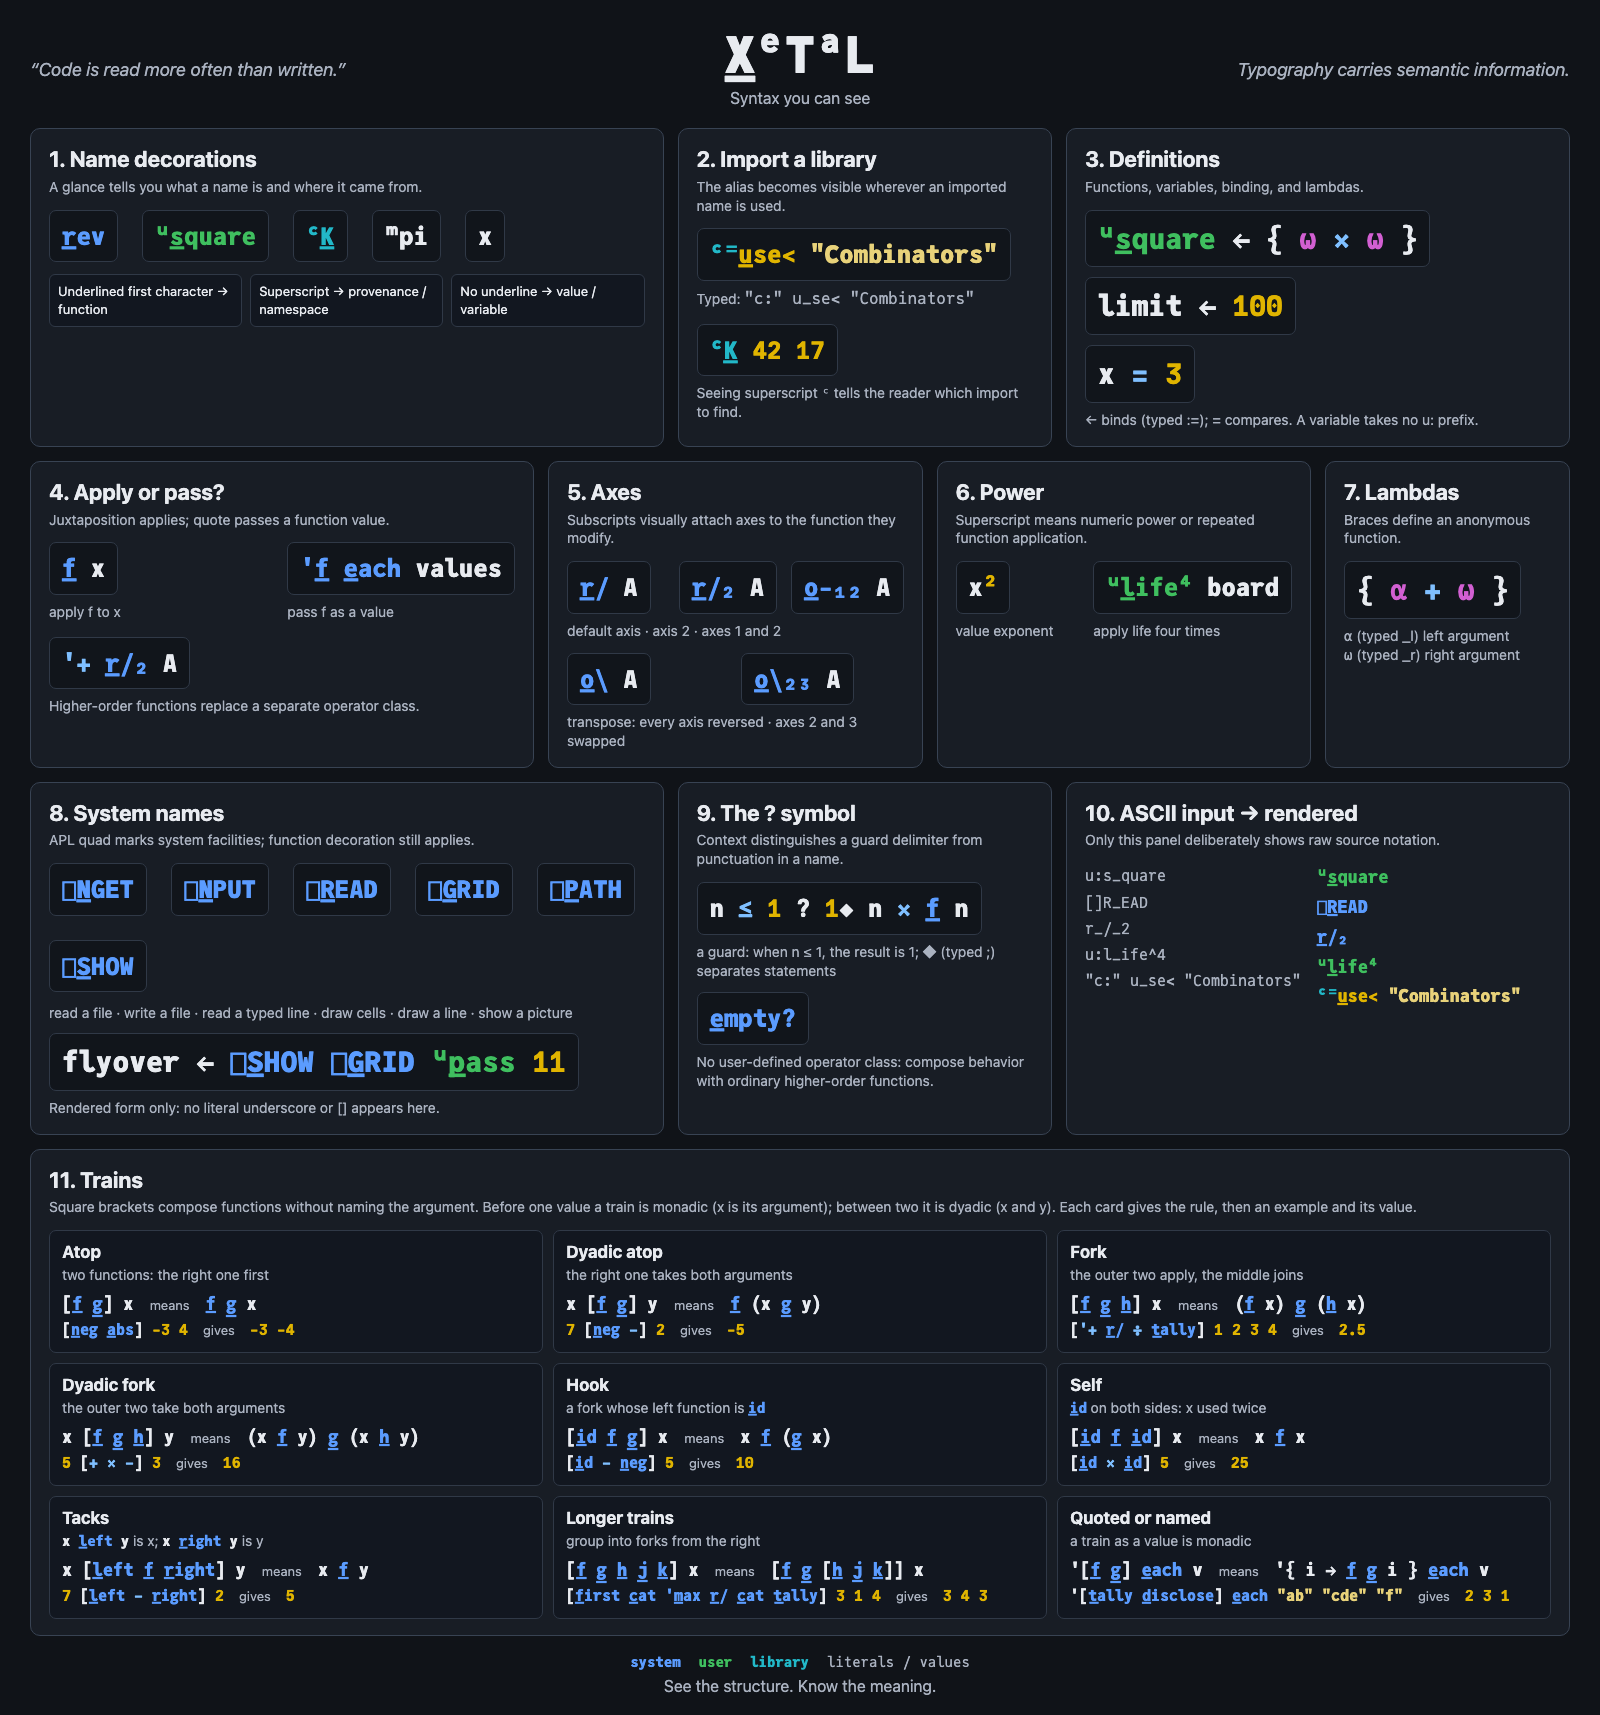
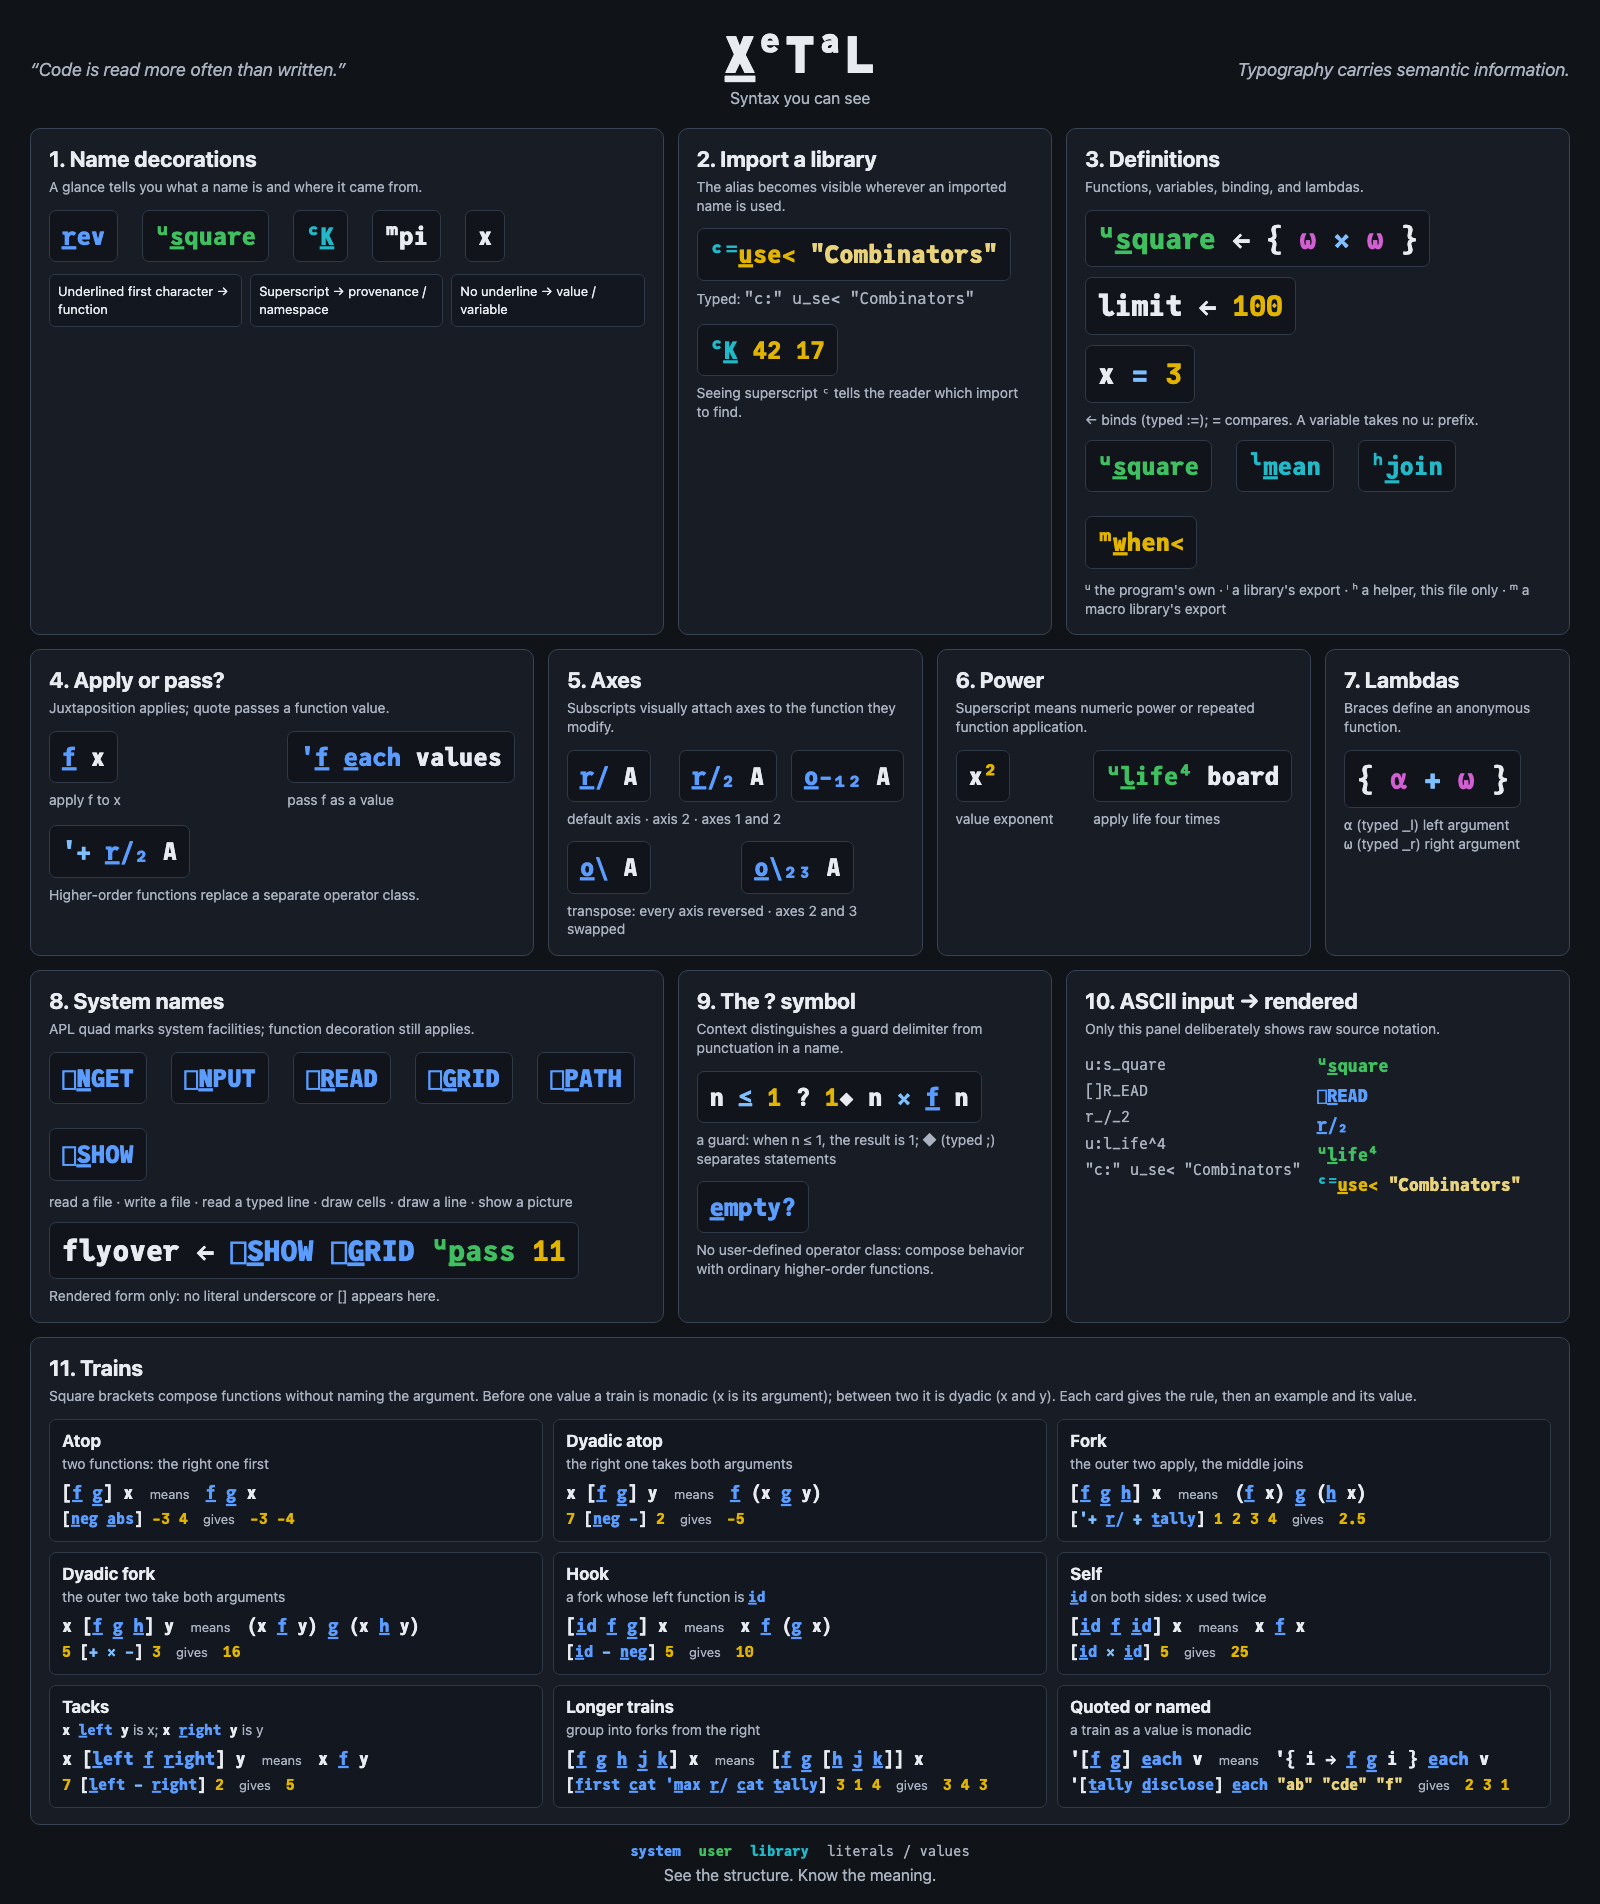
docs: the u:, l:, h: and m: prefixes in the README and the syntax poster

diff --git a/pages/poster/index.html b/pages/poster/index.html
@@ -28,7 +28,7 @@ footer{grid-column:1/-1;text-align:center;color:var(--dim);padding-top:4px}.lege
 <section class="panel p3"><h2>3. Definitions</h2><div class="sub">Functions, variables, binding, and lambdas.</div>
 <div><span class="sample code big xetal-placeholder" data-source='u:s_quare := { _r * _r }'><span class="c-userfunc">ᵘs̲quare</span> ← { <span class="c-lambdaarg">⍵</span> <span class="c-symbol">×</span> <span class="c-lambdaarg">⍵</span> }</span></div>
 <div style="margin-top:10px"><span class="sample code big xetal-placeholder" data-source='limit := 100'>limit ← <span class="c-number">100</span></span></div>
-<div style="margin-top:10px"><span class="sample code big xetal-placeholder" data-source='x = 3'>x <span class="c-symbol">=</span> <span class="c-number">3</span></span></div><div class="note">← binds (typed :=); = compares. A variable takes no u: prefix.</div></section>
+<div style="margin-top:10px"><span class="sample code big xetal-placeholder" data-source='x = 3'>x <span class="c-symbol">=</span> <span class="c-number">3</span></span></div><div class="note">← binds (typed :=); = compares. A variable takes no u: prefix.</div><div class="code-row" style="margin-top:10px"><span class="sample code xetal-placeholder" data-source='u:s_quare'><span class="c-userfunc">ᵘs̲quare</span></span><span class="sample code xetal-placeholder" data-source='l:m_ean'><span class="c-libfunc">ˡm̲ean</span></span><span class="sample code xetal-placeholder" data-source='h:j_oin'><span class="c-libfunc">ʰj̲oin</span></span><span class="sample code xetal-placeholder" data-source='m:w_hen&lt;'><span class="c-macro">ᵐw̲hen&lt;</span></span></div><div class="note">ᵘ the program's own · ˡ a library's export · ʰ a helper, this file only · ᵐ a macro library's export</div></section>
 
 <section class="panel p4"><h2>4. Apply or pass?</h2><div class="sub">Juxtaposition applies; quote passes a function value.</div>
 <div class="two"><div><span class="sample code xetal-placeholder" data-source='f_ x'><span class="c-builtin">f̲</span> x</span><div class="note">apply f to x</div></div><div><span class="sample code xetal-placeholder" data-source='&#39;f_ e_ach values'><span class="c-builtin">'f̲</span> <span class="c-builtin">e̲ach</span> values</span><div class="note">pass f as a value</div></div></div>

diff --git a/scripts/poster/xetal-syntax-poster/index.html b/scripts/poster/xetal-syntax-poster/index.html
@@ -28,7 +28,7 @@ footer{grid-column:1/-1;text-align:center;color:var(--dim);padding-top:4px}.lege
 <section class="panel p3"><h2>3. Definitions</h2><div class="sub">Functions, variables, binding, and lambdas.</div>
 <div><span class="sample code big xetal-placeholder" data-source='u:s_quare := { _r * _r }'></span></div>
 <div style="margin-top:10px"><span class="sample code big xetal-placeholder" data-source='limit := 100'></span></div>
-<div style="margin-top:10px"><span class="sample code big xetal-placeholder" data-source='x = 3'></span></div><div class="note">← binds (typed :=); = compares. A variable takes no u: prefix.</div></section>
+<div style="margin-top:10px"><span class="sample code big xetal-placeholder" data-source='x = 3'></span></div><div class="note">← binds (typed :=); = compares. A variable takes no u: prefix.</div><div class="code-row" style="margin-top:10px"><span class="sample code xetal-placeholder" data-source='u:s_quare'></span><span class="sample code xetal-placeholder" data-source='l:m_ean'></span><span class="sample code xetal-placeholder" data-source='h:j_oin'></span><span class="sample code xetal-placeholder" data-source='m:w_hen&lt;'></span></div><div class="note">ᵘ the program's own · ˡ a library's export · ʰ a helper, this file only · ᵐ a macro library's export</div></section>
 
 <section class="panel p4"><h2>4. Apply or pass?</h2><div class="sub">Juxtaposition applies; quote passes a function value.</div>
 <div class="two"><div><span class="sample code xetal-placeholder" data-source='f_ x'></span><div class="note">apply f to x</div></div><div><span class="sample code xetal-placeholder" data-source='&#39;f_ e_ach values'></span><div class="note">pass f as a value</div></div></div>

diff --git a/README.md b/README.md
@@ -61,6 +61,8 @@ a value is an exponent. The language decisions are recorded in
 | `o_-_2`       | o-, o underlined, subscript 2         | rotate along axis 2                  |
 | `'+ r_/ A`    | quote +, then r/ with r underlined    | reduce A by plus (APL `+/A`)         |
 | `u:s_quare`   | superscript u, square, s underlined   | a user-defined function              |
+| `l:m_ean`     | superscript l, mean, m underlined     | a library's export, in its own file  |
+| `h:j_oin`     | superscript h, join, j underlined     | a helper, private to its file        |
 | `c:K_`        | superscript c, K underlined           | K from the combinator library        |
 | `x^2`         | x squared                             | exponent on a value                  |
 | `x^0.5`       | x, raised 0.5 (a middle dot as point) | a decimal exponent: the square root  |
@@ -69,6 +71,21 @@ a value is an exponent. The language decisions are recorded in
 | `@`           | @                                     | the Unit value                       |
 | `[f_ g_ h_]`  | in square brackets                    | a train: `(f_ x) g_ (h_ x)`          |
 | `"ab" "cde"`  | two strings side by side              | a nested vector of two strings       |
+
+The reserved prefixes say whose a top-level name is. `u:` is the
+program's own: a function an app defines and offers (`u:s_quare`).
+`l:` is a library's export, written so inside the library
+(`l:m_ean` in `lib/Stats.xtl`); a program that imports the library
+names it with its own alias instead (`s:m_ean`). `h:` is a helper,
+visible only in the file that defines it, in an app or a library
+alike (`h:j_oin`); it is never part of what the file offers, so
+`xetal type` and `xetal doc` leave it out. `m:` is a macro
+library's export (`m:w_hen<` in `lib/Macros.xtlm`). Any other prefix
+is an import's alias (`c:K_`), read-only. A variable needs no prefix
+(`limit := 8`). `u:`, `l:` and `h:` cannot be aliases. A
+library's function written without `h:` still works but warns;
+`xetal migrate FILE` rewrites it. See
+[`docs/private-names.md`](docs/private-names.md).
 
 Built-in names are words (`r_eshape`, `t_ally`) so code stays
 recognizable; a punctuation mark appears only where it carries APL

diff --git a/CHANGES.md b/CHANGES.md
@@ -12,6 +12,7 @@ saga planning and reordering, `release` milestone release,
 
 ## 2026-10-07
 
+- 17:40 `docs` The prefixes explained (Saga 38 step 5, in progress): the README's notation table gains `l:m_ean` and `h:j_oin`, with a paragraph on `u:` (the program's), `l:` (a library's export), `h:` (a helper, its file only), `m:` (a macro library's export) and an import's alias; the syntax poster's Definitions panel shows the four side by side.
 - 17:10 `feat` Bare library functions deprecated, and `xetal migrate` (PN2, PN3, PN6, Saga 38 step 4, D124): a library's bare top-level function warns `deprecated-private` (helpers written `h:` and bare variables do not); `xetal migrate FILE` prints a library with its bare functions and their uses written `h:`, a lambda's own local of the same name left bare; a bare function in an app names both choices (`u:` or `h:`); lib/ (Geometry3D, Stats, Svg, TTTML, Turtle), userlibs/Greetings and rosetta's Stone migrated, and a test fails the gate on any library here that still warns.
 - 16:45 `build` The LaTeX gallery skips a pending spec case whose source does not lex yet (as it does an error case), so the tuple cases still pending do not fail it; gallery rebuilt after merging PR #108.
 - 16:35 `chore` Merged PR #108 (tuple values, Saga 39 step 2, with the decisions of step 1); PR #107 closed as superseded by it.
